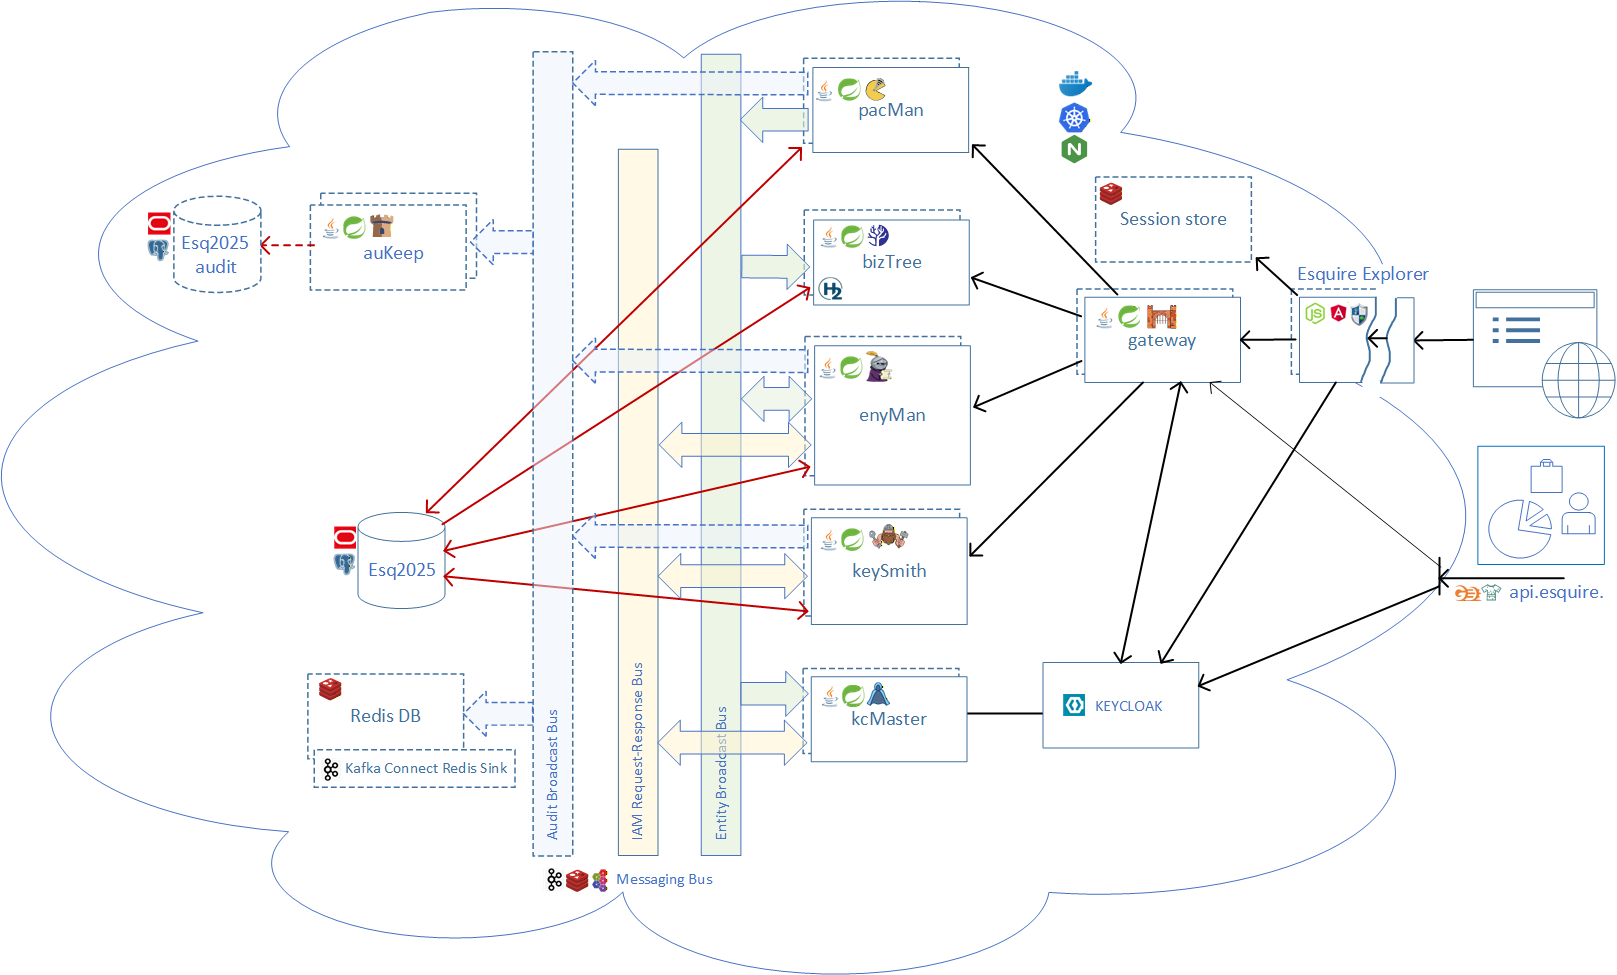
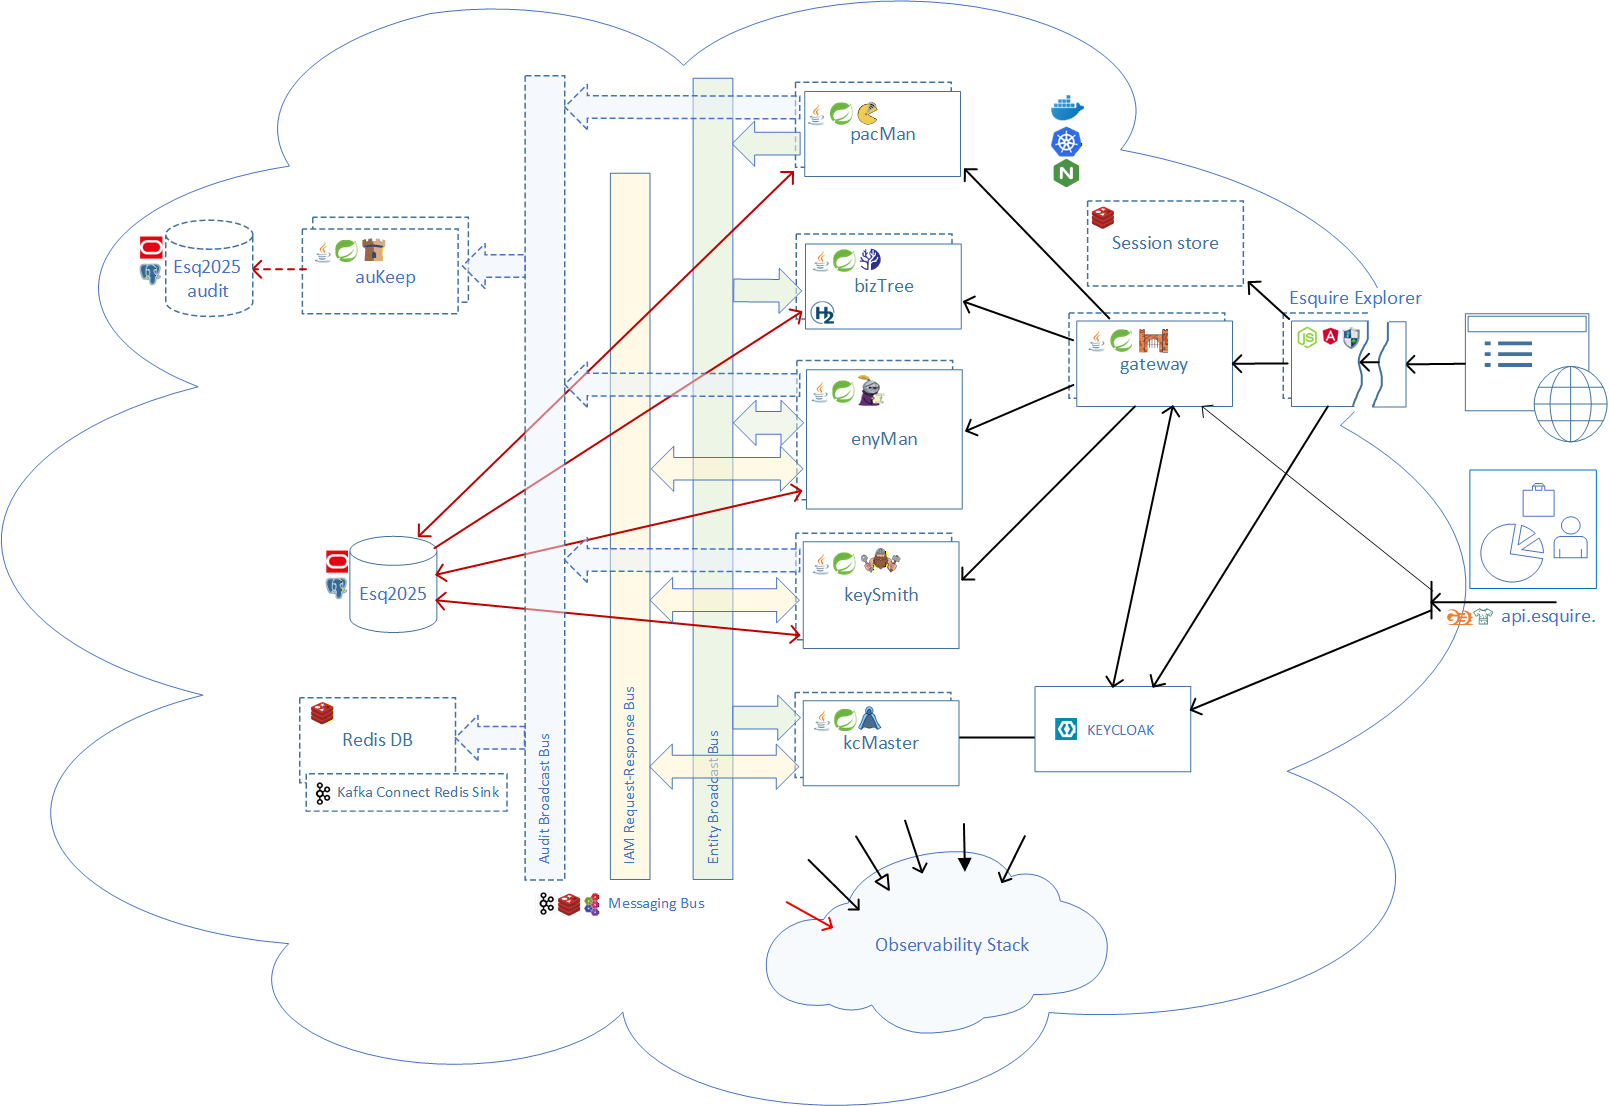
v1.2.11 -- up-to-date landing pages

diff --git a/frontend/public/landing/architecture.html b/frontend/public/landing/architecture.html
@@ -148,6 +148,49 @@
               <img src="/logo/gatling.svg" alt="Gatling" height="18" style="vertical-align:middle"></h3>
             <p>Public REST API exposed for gatling-based load / smoke harnesses and other integrations.</p>
 
+            <h2 style="margin-top: 32px; border-top: 1px solid rgba(0,0,0,0.08); padding-top: 20px;">Observability Stack</h2>
+            <img class="landing-arch-diagram" src="/img/o11yStack.png" alt="Esquire Observability Stack"/>
+
+            <p>
+              The framework is <strong>observable the same way everywhere</strong>: metrics, logs, and distributed
+              traces, joined by a single correlation id, so any request's whole story &mdash; from the browser, through
+              the service calls, across the message hops &mdash; is one search away on one screen. The whole stack can
+              be switched on in <strong>any environment, at any moment</strong>; whether it is left running is a
+              resource decision, not a capability one. Every piece below is open-source, and any of it can be swapped
+              out &mdash; no lock-in, the same rule as the rest of the platform.
+            </p>
+
+            <h3>Postgres Exporter
+              <img src="/logo/postgres.svg" alt="Postgres" height="20" style="vertical-align:middle"></h3>
+            <p>Turns the database's own statistics into numbers the metrics store can read.</p>
+
+            <h3>Prometheus
+              <img src="/logo/prometheus_logo.svg" alt="Prometheus" height="22" style="vertical-align:middle"></h3>
+            <p>The metrics store &mdash; collects the numbers (rates, timings, counts) from every service and keeps
+               their history.</p>
+
+            <h3>OpenTelemetry Collector
+              <img src="/logo/OTelCollector.png" alt="OpenTelemetry Collector" height="22" style="vertical-align:middle"></h3>
+            <p>The traces hub &mdash; a separate service that gathers each request's trace from every service, passes
+               it to the trace store, and builds the live map of which service calls which.</p>
+
+            <h3>Grafana Tempo
+              <img src="/logo/tempo_logo.svg" alt="Tempo" height="22" style="vertical-align:middle"></h3>
+            <p>The trace store &mdash; keeps each request's end-to-end trace, found by the same id as its logs.</p>
+
+            <h3>Grafana Alloy
+              <img src="/logo/alloy_icon.png" alt="Alloy" height="22" style="vertical-align:middle"></h3>
+            <p>The log collector &mdash; gathers the log lines from every service and passes them to the log store.</p>
+
+            <h3>Grafana Loki
+              <img src="/logo/loki_icon.svg" alt="Loki" height="22" style="vertical-align:middle"></h3>
+            <p>The log store &mdash; keeps all the logs, searchable, and serves them to the dashboard.</p>
+
+            <h3>Grafana
+              <img src="/logo/grafana_icon.svg" alt="Grafana" height="22" style="vertical-align:middle"></h3>
+            <p>The one screen &mdash; dashboards for logs, traces, and numbers together; because everything shares one
+               id, a log line, its trace, and its numbers are one click apart.</p>
+
             <p style="margin-top: 24px; border-top: 1px solid rgba(0,0,0,0.08); padding-top: 16px;">
               Source code and documentation:
               <a href="https://github.com/mir0n-pro/esquire.services#readme"

diff --git a/frontend/public/landing/vision.html b/frontend/public/landing/vision.html
@@ -66,3 +66,32 @@
               inherit governance for free. There is no limit to the number or type of trees a deployment
               can maintain, and no limit to the tools that can be built on each one.
             </p>
+
+            <h3 style="color: #4D6A8D;">A mature framework — everything the stack makes possible</h3>
+            <p>
+              Esquire is not a prototype or a half-built foundation. It takes the ordinary, widely used
+              technology stack — a relational database, Spring Boot, Node.js with Angular, the
+              Grafana/Prometheus tooling — and delivers <strong>everything that stack makes possible</strong>,
+              as one working system from database to browser. That is the whole cloud-native picture, not a
+              slice of it: Esquire answers all <strong>fifteen factors</strong> of a modern cloud-native
+              application — from API-first design through configuration, backing services, and disposability,
+              to telemetry, authentication, and authorization. It already carries what most teams reach only
+              years in:
+            </p>
+            <ul style="font-size:12pt; line-height:1.6; color:rgba(0,0,0,0.75); padding-left:20px;">
+              <li><strong>High availability</strong> — every service runs redundantly, spread across nodes, so
+                  a lost pod or a lost node does not take the system down.</li>
+              <li><strong>Full observability</strong> — metrics, logs, and distributed traces on one screen,
+                  joined by a single correlation id, so any request's whole story is one search away.</li>
+              <li><strong>A hybrid REST + event-driven engine</strong> — synchronous APIs and an asynchronous
+                  messaging bus, both live, both vendor-neutral underneath.</li>
+              <li><strong>Open at every layer</strong> — database, messaging transport, and identity are each a
+                  deployment choice behind a stable interface; no single vendor is baked in.</li>
+              <li><strong>Running for real</strong> — the complete stack is deployed live in the cloud, not only
+                  on a developer's laptop.</li>
+            </ul>
+            <p>
+              The three backbone ideas — tree-shaped visibility, positional authority, entity self-description —
+              sit on a finished, production-grade cloud-native foundation. The floor is not just laid; it is
+              complete.
+            </p>

diff --git a/frontend/public/landing/why-it-matters.html b/frontend/public/landing/why-it-matters.html
@@ -95,3 +95,29 @@
               from here — new database targets, new transports, new IAM providers, new entity domains —
               without any dramatic change to the core architecture.
             </p>
+
+            <h3>7. Observable the same way everywhere</h3>
+            <p>
+              Metrics, logs, and distributed traces come from every service in one common shape, joined by a
+              single correlation id. A log line, its trace, and its numbers are one click apart on one screen —
+              a request's whole story, from the browser through the service calls and across the message hops,
+              is one search away. The whole stack switches on in any environment, at any moment; whether it is
+              left running is a resource decision, not a capability one. Most comparable tools leave telemetry
+              to the application team; here it is built in and uniform.
+            </p>
+
+            <h3>8. Highly available by construction</h3>
+            <p>
+              The gateway, every backend service, and the browser front-door each run redundantly, spread
+              across nodes, so losing one keeps the site up. High availability is not a later hardening
+              project bolted on — it is how the system is deployed from the start.
+            </p>
+
+            <h3>A finished, production-grade foundation</h3>
+            <p>
+              Each of these is a hard problem most teams solve late, under pressure, one incident at a time.
+              Esquire solves all of them once, correctly, and ships them together as one mature framework —
+              answering the full set of <strong>fifteen cloud-native factors</strong>, from API-first design
+              to telemetry and authorization. The floor is not just laid; it is complete, and running live
+              in production.
+            </p>

diff --git a/frontend/public/landing/who-needs-it.html b/frontend/public/landing/who-needs-it.html
@@ -55,3 +55,10 @@
               entities needs to be managed, permissioned, and audited over a multi-year lifespan. Esquire
               gives you the infrastructure that does not need to be revisited every time the product evolves.
             </p>
+
+            <p style="margin-top: 20px; border-top: 1px solid rgba(0,0,0,0.08); padding-top: 16px;">
+              Whichever of these you are, the foundation is <strong>complete today</strong> — not a roadmap.
+              High availability, full observability, a hybrid REST and event-driven engine, and open vendor
+              slots at every layer are already in place, running live in production. You inherit a
+              production-grade, mature framework on day one and spend your time on the product.
+            </p>

diff --git a/frontend/public/landing/vs-competition.html b/frontend/public/landing/vs-competition.html
@@ -1,5 +1,13 @@
             <h2>vs Competition</h2>
 
+            <p>
+              The comparison below is not a promise about where Esquire is headed — it is a <strong>mature
+              framework measured as it stands</strong>: a complete, working system from database to browser,
+              highly available, fully observable, open at every vendor layer, and running live in production.
+              Where others stop at a UI, an identity service, or a scaffold, Esquire delivers the whole
+              backbone, finished.
+            </p>
+
             <h3>Low-code admin panel tools</h3>
             <p>
               Forest Admin, Retool, AdminJS, React Admin — these tools generate a working UI quickly.

diff --git a/frontend/public/landing/what-is-it.html b/frontend/public/landing/what-is-it.html
@@ -34,3 +34,9 @@
               Esquire is not a product you subscribe to. It is a framework you own, deploy, and extend.
               No SaaS lock-in, no monthly seat fees, no vendor standing between you and your data.
             </p>
+            <p>
+              And it is <strong>mature, not a prototype</strong>: a complete, working system from database to
+              browser — high availability, full observability, a hybrid REST and event-driven engine, and open
+              vendor slots at every layer — answering all <strong>fifteen factors</strong> of a modern
+              cloud-native application, and running live in production today.
+            </p>

diff --git a/README.md b/README.md
@@ -24,16 +24,19 @@ Each subproject is independently built, run, and deployed; they all talk to
 the same **Esquire server** (`services/`) as outside callers.
 
 
-## v1.2.10 — complete (07/04/2026)
+## v1.2.11 — complete (07/25/2026)
 
-The explorer's share of the **Resilience / Durability** sprint: the SPA and BFF can bound how long they wait on a slow request or a stuck upstream, the BFF can run as more than one copy behind a shared login-session store, and the test harnesses gain recovery tooling and steadier end-to-end runs.
+The explorer's share of the **Observability** sprint: the browser tier joins the framework-wide observability, and the load harness gains an in-place cloud performance matrix -- plus a pair of security fixes at the login edge.
 
 | | |
 |--------------------|-------------------------|
-| `frontend/`| - the browser can bound how long it waits on a slow request (off by default);<br>- an expired session now returns the user to sign-in cleanly (redirect + pre-empt);<br>- debug logging routed through a single helper |
-| `backend/`| - login sessions can move to a shared store (Redis) so the BFF runs as more than one copy; left unset it keeps sessions in memory as a single copy;<br>- the BFF can bound how long it waits on a slow incoming request and on a stuck gateway call (off by default) |
-| `e2e-test/`| - self-contained Test House fixtures;<br>- new session-expiry and login-cancel scenarios;<br>- steadier runs under remote / two-copy timing (cold-start retry and tree-navigation waits) |
-| `hauberk/`| - a load run that checks the database query-time cap;<br>- a Keycloak <-> Esquire reconcile tool;<br>- a request-id stamped on write calls |
+| `backend/`| - the browser tier joins the single observability switch -- its own metrics, a timing on the hop out to the gateway, and its calls to the login server now show up in traces, with tracing and metrics switchable independently;<br>- login secrets now fail closed instead of falling back to a built-in dev value;<br>- a post-login redirect is confined to the app's own address, so a crafted link cannot bounce a signed-in user elsewhere |
+| `hauberk/`| - the performance matrix can run on the live cloud cluster, switching monitoring on and off in place instead of tearing the environment down and rebuilding it each time, and it separates out the logging cost |
+
+## v1.2.10 — complete (07/04/2026)
+
+The explorer's share of the **Resilience / Durability** sprint: the SPA and BFF can bound how long they wait on a slow request or a stuck upstream, the BFF can run as more than one copy behind a shared login-session store, and the test harnesses gain recovery tooling and steadier end-to-end runs.<br>
+[More Details: v1.2.10 README](https://github.com/mir0n-pro/esquire.explorer/tree/release/v1.2.10?tab=readme-ov-file)
 
 ## v1.2.9 — complete (06/24/2026)
 
